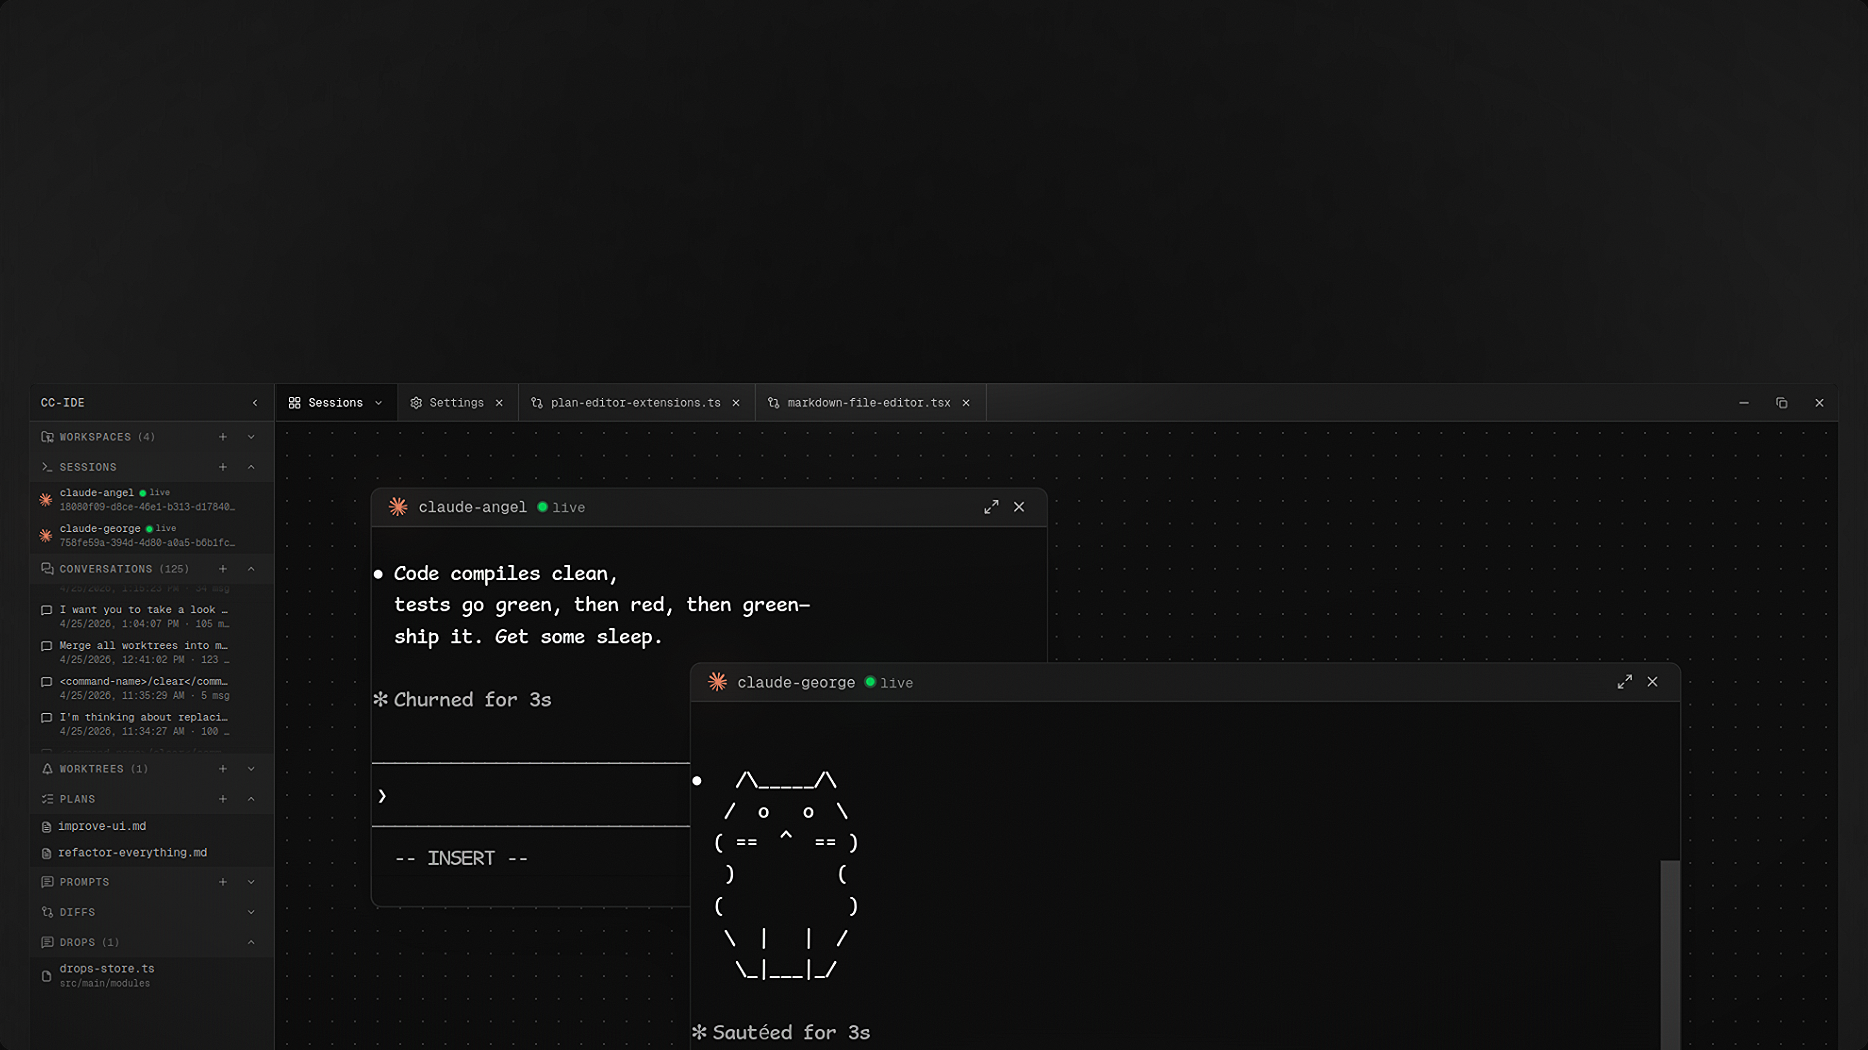
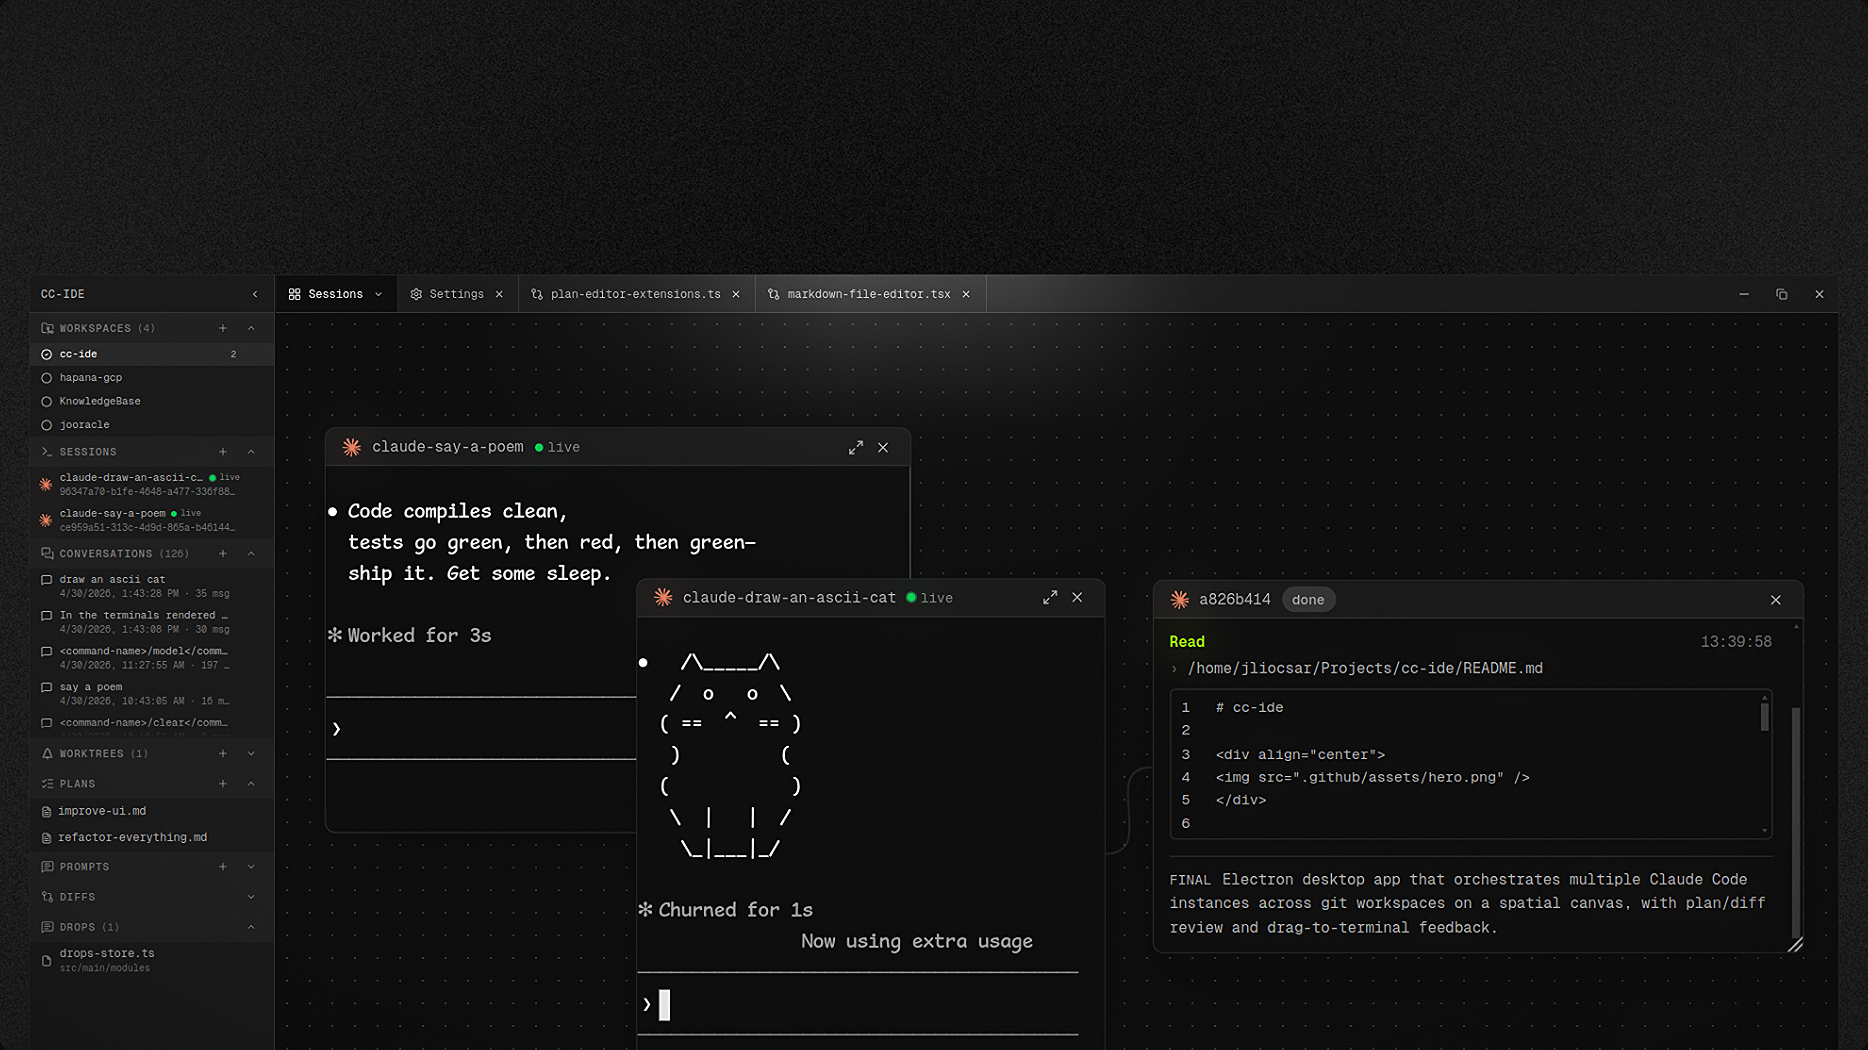
fix(canvas): subagent window minor fix; update hero image

diff --git a/src/renderer/src/components/canvas/subagent-window.tsx b/src/renderer/src/components/canvas/subagent-window.tsx
@@ -136,7 +136,7 @@ function SubagentWindowImpl({ w }: { w: CanvasWindow }): JSX.Element {
         </>
       }
     >
-      <div className="h-full overflow-y-auto bg-[#0a0a0a] px-3 py-2 font-mono text-[11px] leading-relaxed">
+      <div className="scrollbar-themed h-full overflow-y-auto bg-[#0a0a0a] px-3 py-2 font-mono text-[11px] leading-relaxed">
         {paired.length === 0 ? (
           <div className="text-muted-foreground">waiting for output…</div>
         ) : (
@@ -176,7 +176,7 @@ function renderEntry(entry: PairedEntry): JSX.Element {
         {entry.result ? (
           <pre
             className={cn(
-              'mt-1 max-h-28 overflow-y-auto whitespace-pre-wrap rounded border border-border bg-background/60 px-2 py-1 text-[10.5px] text-muted-foreground',
+              'scrollbar-themed mt-1 max-h-28 overflow-y-auto whitespace-pre-wrap rounded border border-border bg-background/60 px-2 py-1 text-[10.5px] text-muted-foreground',
               hasError && 'border-destructive/60 text-destructive',
             )}
           >